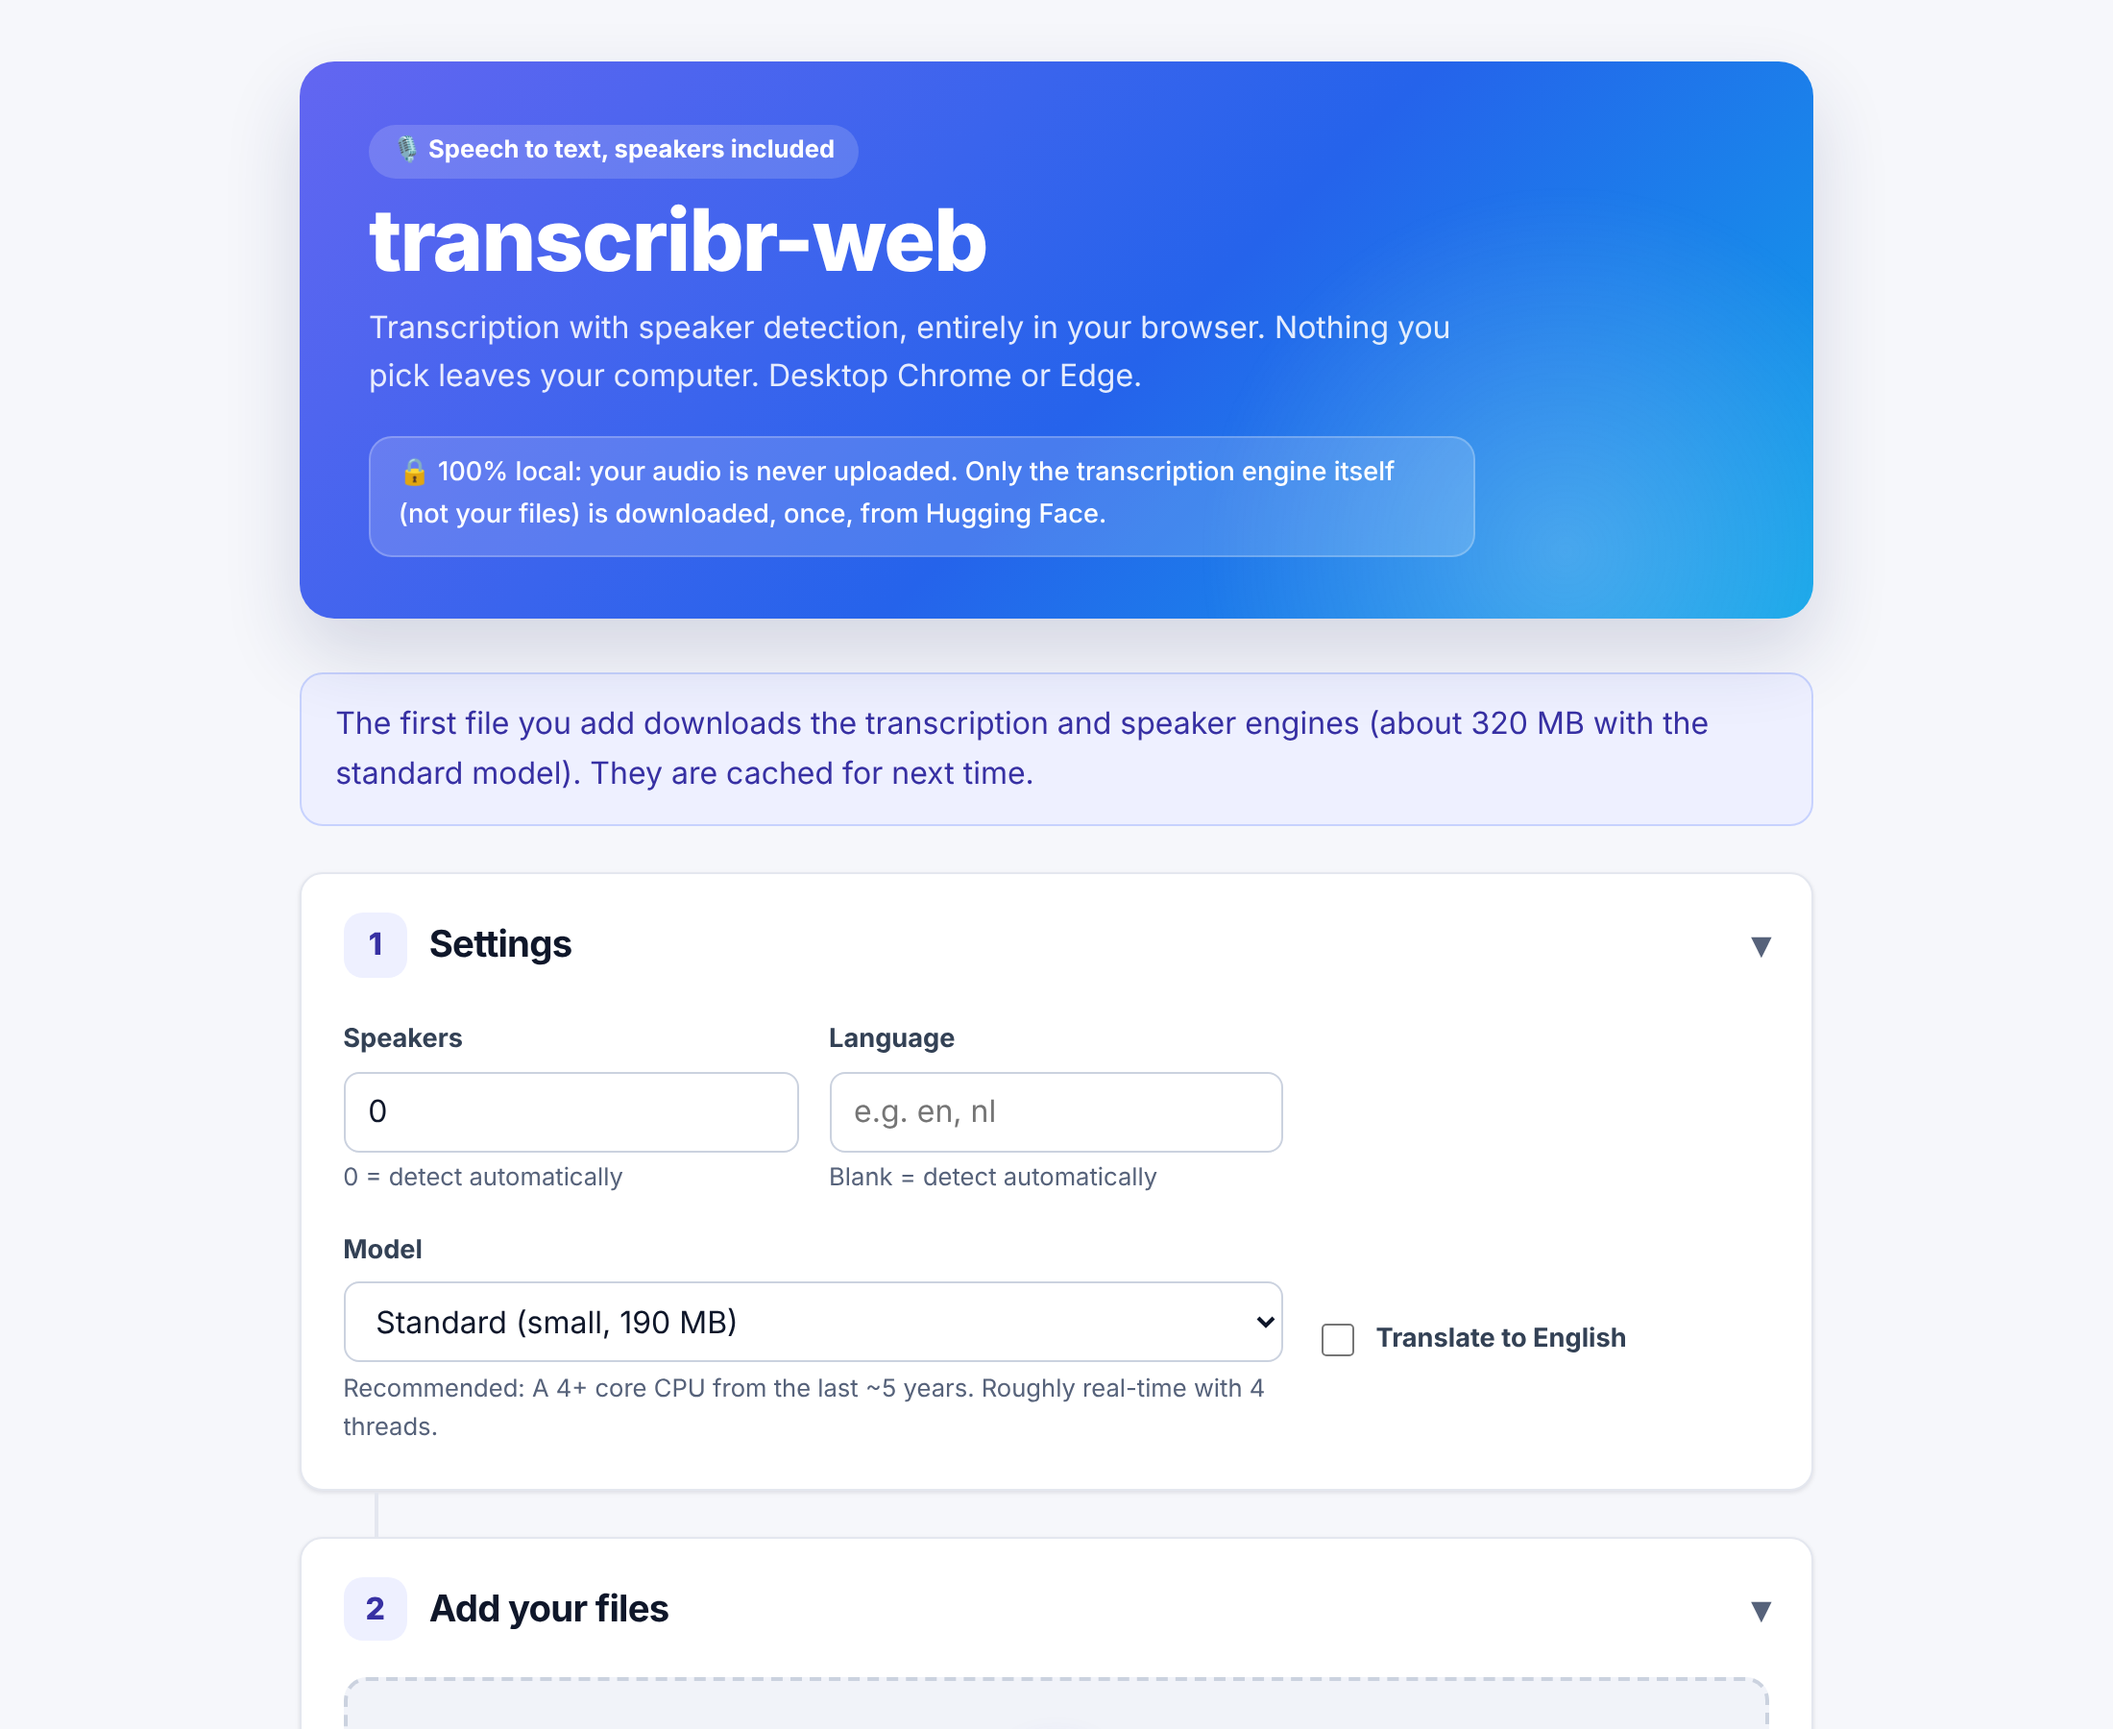
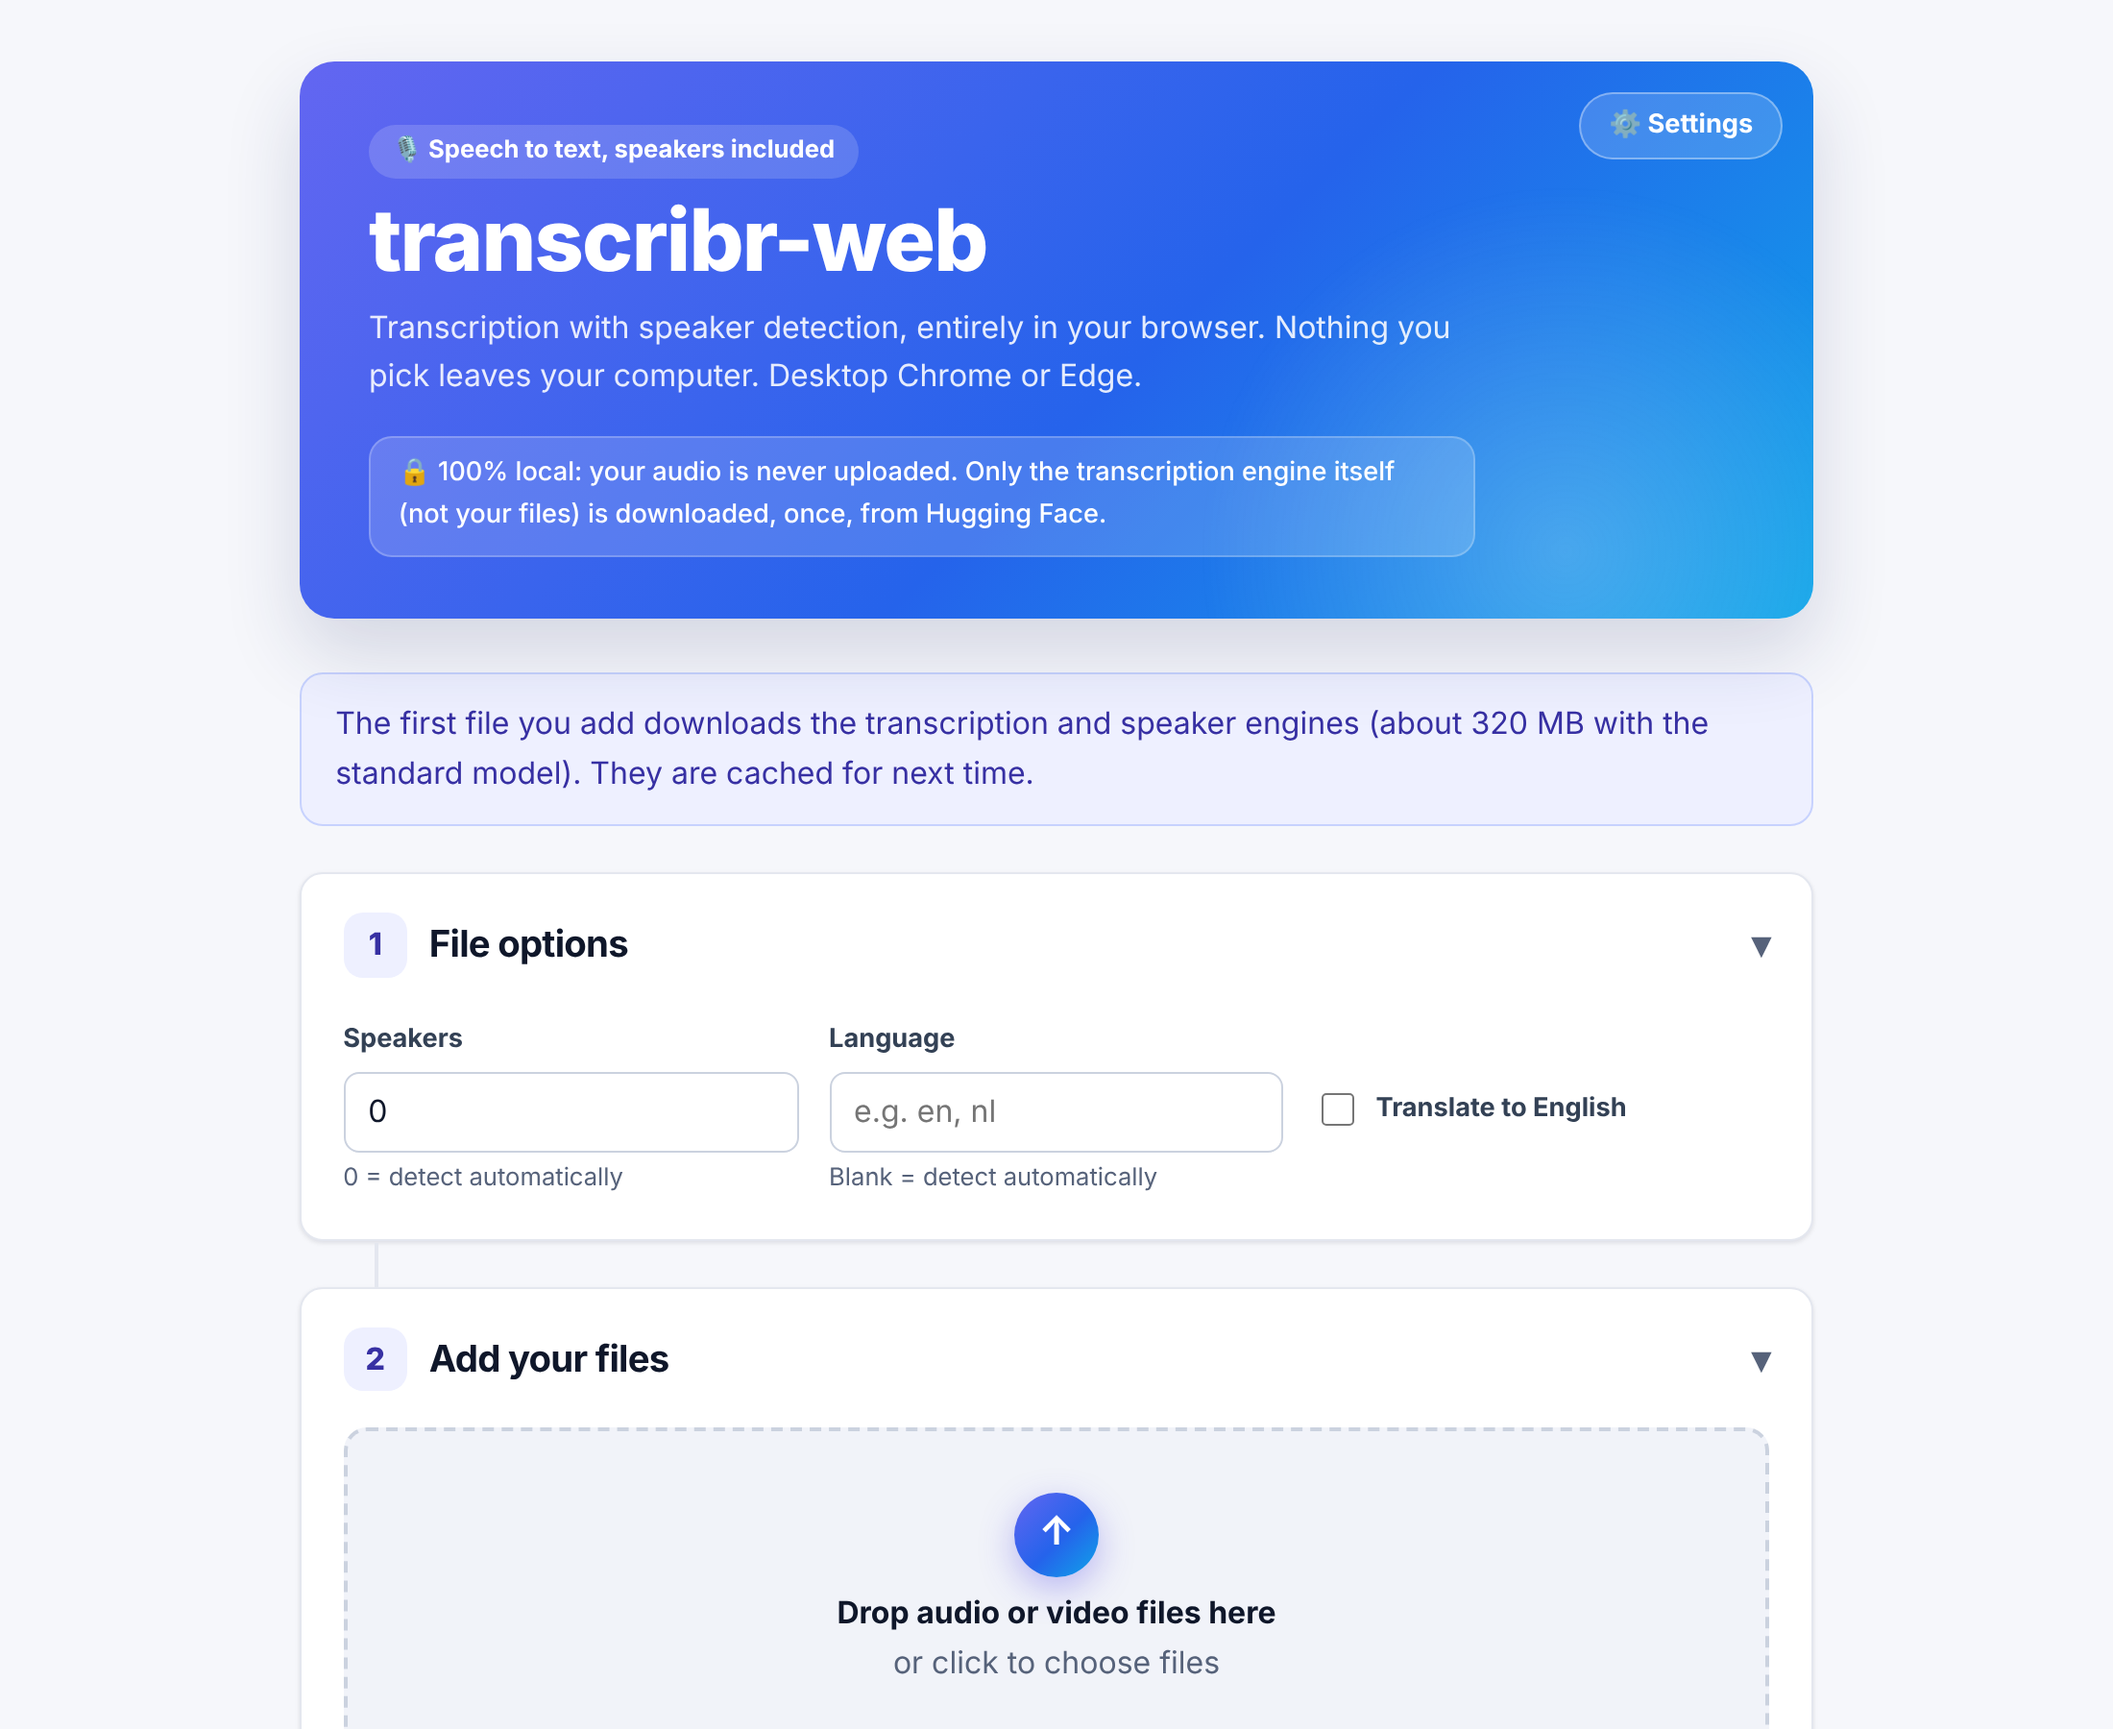
Settings menu: model and light/dark appearance, remembered per browser
A Settings button in the header opens a native dialog holding the model
picker (moved out of step 1, now 'File options') and an Appearance choice
(match system, light, dark). Both persist in localStorage. Dark tokens now
key off data-theme, set by a small inline script in <head> so there's no
flash of the wrong theme.

diff --git a/index.html b/index.html
@@ -11,9 +11,28 @@
        can't set COOP/COEP headers (GitHub Pages), reloading once if needed. -->
   <script src="coi-serviceworker.js"></script>
   <link rel="stylesheet" href="styles.css" />
+  <!-- Theme: "system" follows the OS; the choice is remembered per browser.
+       Inline and in <head> so the page never flashes the wrong theme. -->
+  <script>
+    function setTheme(pref) {
+      try { localStorage.setItem("theme", pref); } catch (e) {}
+      applyTheme();
+    }
+    function themePref() {
+      try { return localStorage.getItem("theme") || "system"; } catch (e) { return "system"; }
+    }
+    function applyTheme() {
+      const pref = themePref();
+      const dark = pref === "dark" || (pref === "system" && matchMedia("(prefers-color-scheme: dark)").matches);
+      document.documentElement.dataset.theme = dark ? "dark" : "light";
+    }
+    applyTheme();
+    matchMedia("(prefers-color-scheme: dark)").addEventListener("change", applyTheme);
+  </script>
 </head>
 <body>
   <header class="hero">
+    <button type="button" id="settings-open" class="settings-open" aria-haspopup="dialog">&#9881;&#65039; Settings</button>
     <p class="hero-eyebrow">&#127897;&#65039; Speech to text, speakers included</p>
     <h1>transcribr-web</h1>
     <p class="subtitle">Transcription with speaker detection, entirely in your browser. Nothing you pick leaves your computer. Desktop Chrome or Edge.</p>
@@ -28,7 +47,7 @@
 
   <section class="panel">
     <button type="button" class="step-heading panel-toggle" aria-expanded="true" aria-controls="settings-body">
-      <span class="step-num">1</span>Settings<span class="chevron" aria-hidden="true">&#9662;</span>
+      <span class="step-num">1</span>File options<span class="chevron" aria-hidden="true">&#9662;</span>
     </button>
     <div id="settings-body" class="panel-body">
       <div class="collapsible-inner">
@@ -42,11 +61,6 @@
           <label for="language">Language</label>
           <input type="text" id="language" placeholder="e.g. en, nl" />
           <p class="hint">Blank = detect automatically</p>
-        </div>
-        <div class="field field-wide">
-          <label for="model">Model</label>
-          <select id="model"></select>
-          <p class="hint" id="model-hint"></p>
         </div>
         <div class="field field-checkbox">
           <label class="checkbox-label"><input type="checkbox" id="translate" /> Translate to English</label>
@@ -67,7 +81,7 @@
         <span class="dropzone-icon" aria-hidden="true">&#8593;</span>
         <span class="dropzone-text"><strong>Drop audio or video files here</strong><br />or click to choose files</span>
       </label>
-      <p class="hint">Settings above apply to files as they start processing, so you can still adjust them per file.</p>
+      <p class="hint">Options above apply to files as they start processing, so you can still adjust them per file.</p>
       </div>
     </div>
   </section>
@@ -86,6 +100,27 @@
       </div>
     </div>
   </section>
+
+  <dialog id="settings-dialog" class="settings-dialog" aria-labelledby="settings-title">
+    <form method="dialog">
+      <h2 id="settings-title">Settings</h2>
+      <div class="field">
+        <label for="model">Model</label>
+        <select id="model"></select>
+        <p class="hint" id="model-hint"></p>
+      </div>
+      <div class="field">
+        <label for="theme">Appearance</label>
+        <select id="theme">
+          <option value="system">Match my system</option>
+          <option value="light">Light</option>
+          <option value="dark">Dark</option>
+        </select>
+      </div>
+      <p class="hint">Saved in this browser.</p>
+      <div class="settings-actions"><button class="btn btn-sm">Done</button></div>
+    </form>
+  </dialog>
 
   <script type="module" src="app.js"></script>
 </body>

diff --git a/styles.css b/styles.css
@@ -45,38 +45,38 @@
   --fast: 150ms;
   --medium: 260ms;
 }
-@media (prefers-color-scheme: dark) {
-  :root {
-    color-scheme: dark;
-    --bg: #0b1120;
-    --surface: #131a2a;
-    --surface-2: #1c2436;
-    --ink: #e7ebf3;
-    --ink-2: #c5ccda;
-    --muted: #98a3b8;
-    --line: #273149;
-    --line-strong: #36425e;
+/* Dark tokens apply via data-theme, set by the inline script in index.html
+   from the Settings choice (or the OS preference when it's "system"). */
+:root[data-theme="dark"] {
+  color-scheme: dark;
+  --bg: #0b1120;
+  --surface: #131a2a;
+  --surface-2: #1c2436;
+  --ink: #e7ebf3;
+  --ink-2: #c5ccda;
+  --muted: #98a3b8;
+  --line: #273149;
+  --line-strong: #36425e;
 
-    --brand: #8b93f8;
-    --brand-2: #6cb0fb;
-    --brand-soft: #232a52;
-    --brand-ink: #c7d2fe;
-    --brand-line: #3e4787;
-    --on-brand: #0b1120;
+  --brand: #8b93f8;
+  --brand-2: #6cb0fb;
+  --brand-soft: #232a52;
+  --brand-ink: #c7d2fe;
+  --brand-line: #3e4787;
+  --on-brand: #0b1120;
 
-    --success-line: #1f6b3d;
-    --warn-ink: #fcd34d;
-    --warn-line: #7a5a12;
-    --warn-tint: #241b08;
-    --danger-soft: #3a1515;
-    --danger-ink: #fca5a5;
-    --danger-line: #7f2a2a;
+  --success-line: #1f6b3d;
+  --warn-ink: #fcd34d;
+  --warn-line: #7a5a12;
+  --warn-tint: #241b08;
+  --danger-soft: #3a1515;
+  --danger-ink: #fca5a5;
+  --danger-line: #7f2a2a;
 
-    --shadow-sm: 0 1px 2px rgba(0, 0, 0, 0.4);
-    --shadow: 0 4px 14px rgba(0, 0, 0, 0.45);
-    --shadow-lg: 0 18px 40px rgba(0, 0, 0, 0.55);
-    --speaker-l: 68%;
-  }
+  --shadow-sm: 0 1px 2px rgba(0, 0, 0, 0.4);
+  --shadow: 0 4px 14px rgba(0, 0, 0, 0.45);
+  --shadow-lg: 0 18px 40px rgba(0, 0, 0, 0.55);
+  --speaker-l: 68%;
 }
 
 * {
@@ -458,6 +458,52 @@ input[type="checkbox"] {
 }
 
 /* ---- Buttons: StatLab's pills ------------------------------------------- */
+/* ---- Settings ------------------------------------------------------------ */
+.settings-open {
+  position: absolute;
+  top: 1rem;
+  right: 1rem;
+  z-index: 1;
+  font: inherit;
+  font-size: 0.85rem;
+  font-weight: 650;
+  color: #fff;
+  background: rgba(255, 255, 255, 0.16);
+  border: 1px solid rgba(255, 255, 255, 0.35);
+  border-radius: 999px;
+  padding: 0.35rem 0.9rem;
+  cursor: pointer;
+}
+.settings-open:hover,
+.settings-open:focus-visible {
+  background: rgba(255, 255, 255, 0.28);
+}
+.settings-dialog {
+  width: min(30rem, calc(100vw - 2rem));
+  border: 1px solid var(--line);
+  border-radius: var(--radius-lg);
+  background: var(--surface);
+  color: var(--ink);
+  box-shadow: var(--shadow-lg);
+  padding: 1.5rem;
+}
+.settings-dialog::backdrop {
+  background: rgba(15, 23, 42, 0.45);
+}
+.settings-dialog h2 {
+  margin: 0 0 1rem;
+  font-size: 1.2rem;
+}
+.settings-dialog form {
+  display: flex;
+  flex-direction: column;
+  gap: 1rem;
+}
+.settings-actions {
+  display: flex;
+  justify-content: flex-end;
+}
+
 .btn {
   display: inline-flex;
   align-items: center;
@@ -759,7 +805,7 @@ input[type="checkbox"] {
     padding: 1rem 0.85rem 3rem;
   }
   .hero {
-    padding: 1.5rem 1.25rem;
+    padding: 3.5rem 1.25rem 1.5rem; /* room for the Settings button above the eyebrow */
   }
   .field-wide {
     grid-column: span 1;

diff --git a/app.js b/app.js
@@ -185,13 +185,22 @@ function updateModelHint(m) {
   modelHint.textContent = model && model.hardware ? "Recommended: " + model.hardware : "";
 }
 
+// The model choice is remembered per browser, like the theme.
+function savedModel() {
+  try { return localStorage.getItem("model"); } catch (e) { return null; }
+}
+
 function fillModelPicker(m) {
   if (!modelSelect.options.length) {
     for (const model of m.whisper.models) {
       const opt = new Option(model.label, model.id, false, Boolean(model.default));
       modelSelect.add(opt);
     }
-    modelSelect.addEventListener("change", () => updateModelHint(m));
+    if (m.whisper.models.some((x) => x.id === savedModel())) modelSelect.value = savedModel();
+    modelSelect.addEventListener("change", () => {
+      try { localStorage.setItem("model", modelSelect.value); } catch (e) {}
+      updateModelHint(m);
+    });
   }
   updateModelHint(m);
 }
@@ -864,6 +873,14 @@ document.querySelectorAll(".panel-toggle").forEach((toggle) => {
     setCollapsed(body, wasExpanded);
   });
 });
+
+const settingsDialog = document.getElementById("settings-dialog");
+const themeSelect = document.getElementById("theme");
+document.getElementById("settings-open").addEventListener("click", () => {
+  themeSelect.value = themePref(); // themePref/setTheme: inline script in index.html
+  settingsDialog.showModal();
+});
+themeSelect.addEventListener("change", () => setTheme(themeSelect.value));
 
 const gameToggle = document.getElementById("game-toggle");
 const flappyCanvas = document.getElementById("flappy-canvas");

diff --git a/README.md b/README.md
@@ -53,10 +53,12 @@ are compiled to WebAssembly and run on your own CPU, inside the browser tab.
 
 The page walks you through three numbered steps.
 
-**1. Settings.** Pick a model, and optionally a language and the number of
-speakers. Leaving them blank or at 0 means "detect automatically".
+**1. File options.** Optionally set the language and the number of
+speakers. Leaving them blank or at 0 means "detect automatically". The
+model and light/dark appearance live under **⚙ Settings** at the top right,
+and both are remembered in your browser.
 
-<img src="docs/images/start.png" alt="The settings step: speakers, language, model picker with a hardware recommendation, and a translate toggle" width="640" />
+<img src="docs/images/start.png" alt="The start of the page: the Settings button, and the file options step with speakers, language and a translate toggle" width="640" />
 
 **2. Add your files.** Drag audio or video onto the drop zone, or click to
 choose. Anything your browser can play works (MP3, WAV, M4A, MP4, WebM, ...).
@@ -96,7 +98,7 @@ Check it yourself: open DevTools → Network while transcribing, or read
 
 ## Choosing a model
 
-The app shows a recommendation next to the picker. Rule of thumb: start with
+Pick the model under **⚙ Settings**; the app shows a hardware recommendation next to the picker. Rule of thumb: start with
 **Standard**; drop to **Fast** on an older laptop, step up to **Accurate**
 for hard audio (accents, noise, crosstalk) if you can wait.
 
